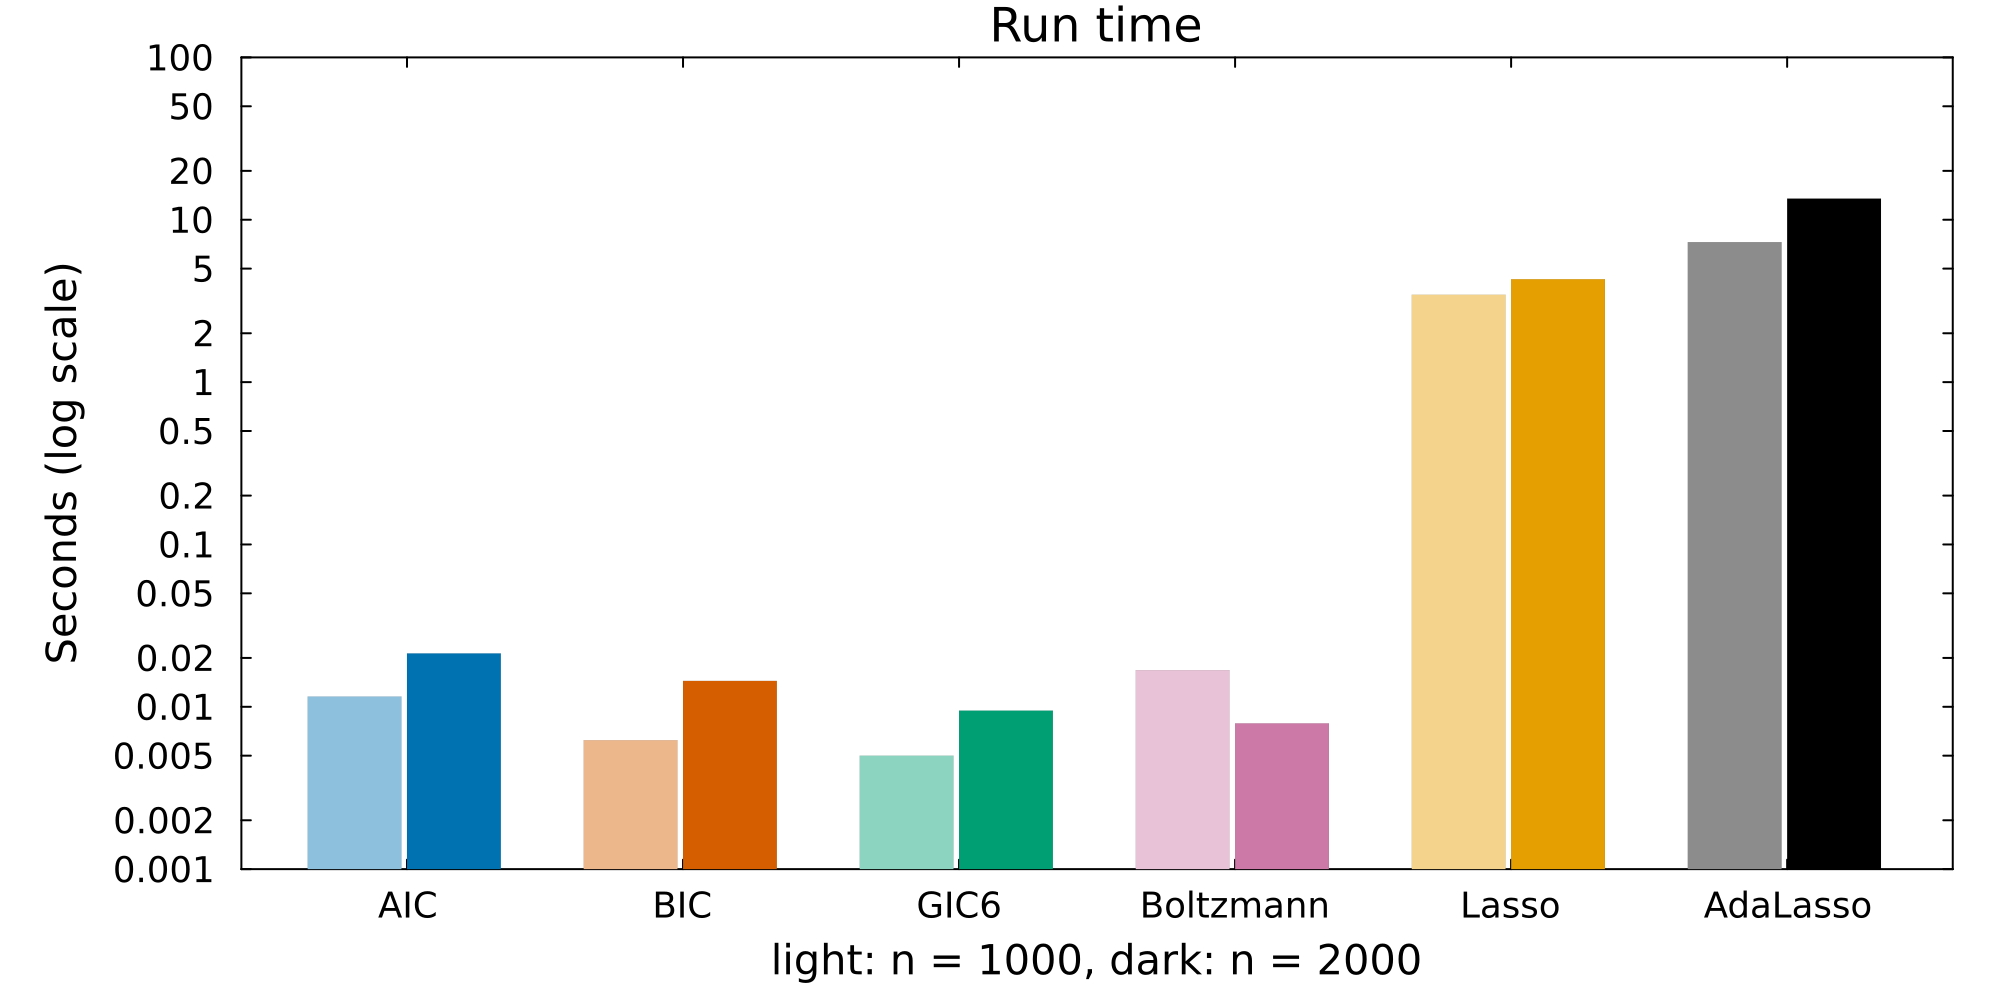
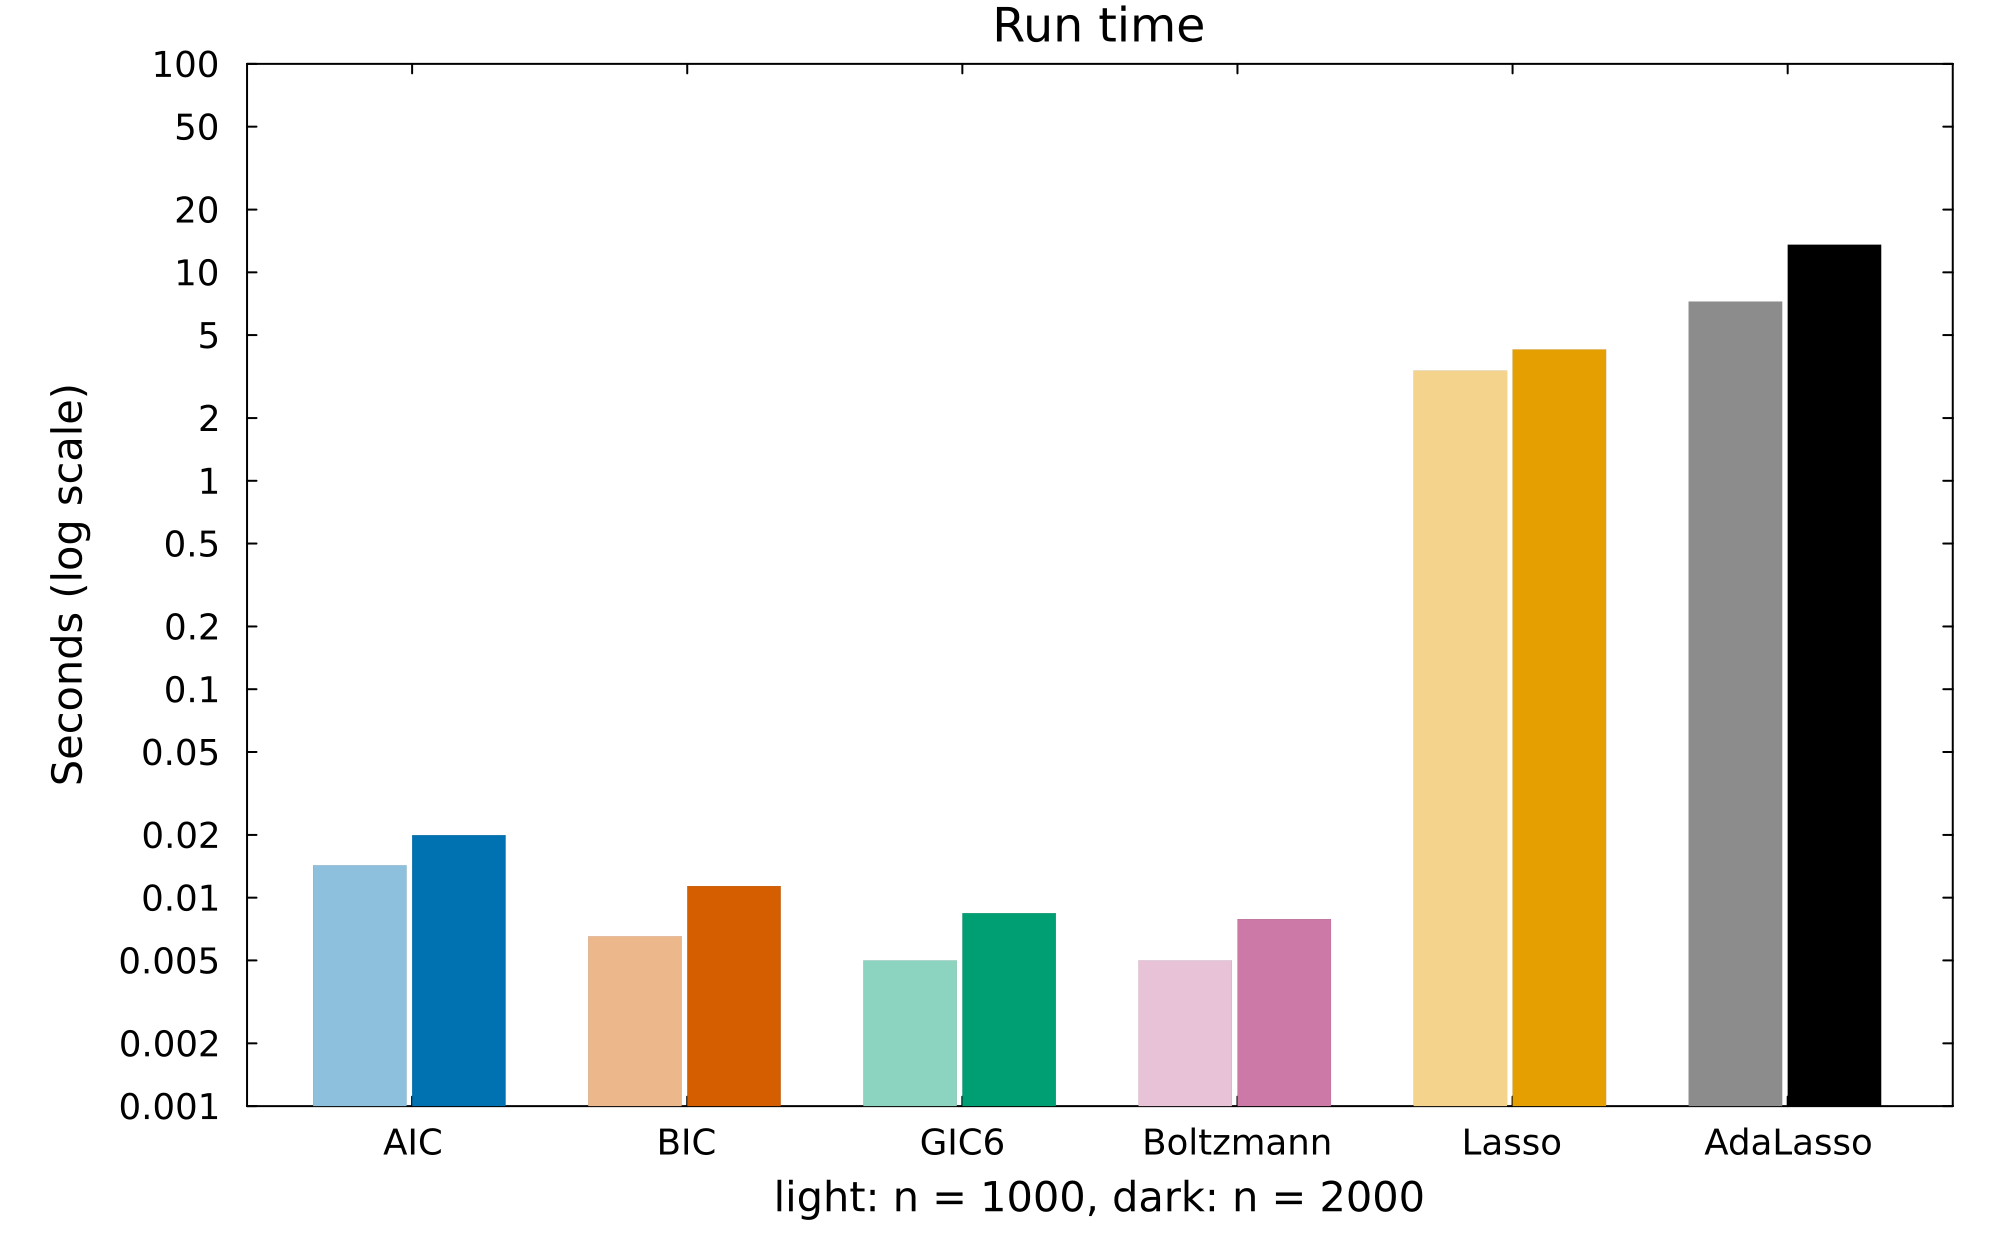
Examples: drop the figure legends and make the figures taller

diff --git a/README.md b/README.md
@@ -337,18 +337,18 @@ Y = LP_to_Y(X, beta, "Normal"; std = sqrt(sum(abs2, beta) / 0.71))
 fits = compare_criteria(X, Y, 1:p, p; Nsim = 5)
 selection_table(fits, true_cols)
 #>                  size false_pos false_neg seconds
-#> n1000 AIC         119       114         0    0.38
-#> n1000 BIC          10         5         0    0.18
-#> n1000 GIC6          5         0         0     0.2
-#> n1000 Boltzmann     5         0         0     0.2
-#> n1000 Lasso        11         6         0     2.2
-#> n1000 AdaLasso     44        39         0    5.05
-#> n2000 AIC          97        92         0    0.59
-#> n2000 BIC          10         5         0    0.42
-#> n2000 GIC6          5         0         0     0.3
-#> n2000 Boltzmann    17        12         0    0.53
-#> n2000 Lasso        23        18         0    2.94
-#> n2000 AdaLasso     39        34         0    8.25
+#> n1000 AIC         119       114         0    0.33
+#> n1000 BIC          10         5         0    0.19
+#> n1000 GIC6          5         0         0    0.16
+#> n1000 Boltzmann     5         0         0    0.27
+#> n1000 Lasso        11         6         0    2.11
+#> n1000 AdaLasso     44        39         0    4.85
+#> n2000 AIC          97        92         0    0.35
+#> n2000 BIC          10         5         0    0.44
+#> n2000 GIC6          5         0         0    0.22
+#> n2000 Boltzmann    17        12         0    0.39
+#> n2000 Lasso        23        18         0    2.84
+#> n2000 AdaLasso     39        34         0    7.91
 ```
 
 ![Criterion along the search, linear model with p = 500](docs/figures/README-linear-criterion.png)
@@ -378,18 +378,18 @@ true_union = sort(unique(reduce(vcat, true_by_response)))
 fits = compare_criteria(X, Y_multi, 1:p, p; Nsim = 5, lasso_family = MvNormal())
 selection_table(fits, true_union)
 #>                  size false_pos false_neg seconds
-#> n1000 AIC          93        69         1    0.37
-#> n1000 BIC          20         0         5    0.18
-#> n1000 GIC6         20         0         5    0.19
-#> n1000 Boltzmann   152       130         3    0.45
+#> n1000 AIC          93        69         1    0.25
+#> n1000 BIC          20         0         5    0.17
+#> n1000 GIC6         20         0         5    0.59
+#> n1000 Boltzmann   152       130         3    0.31
 #> n1000 Lasso       132       107         0    5.72
-#> n1000 AdaLasso     24         2         3   12.73
-#> n2000 AIC          76        51         0    0.53
-#> n2000 BIC          22         0         3    0.31
-#> n2000 GIC6         20         0         5    0.25
-#> n2000 Boltzmann   193       173         5    0.79
+#> n1000 AdaLasso     24         2         3   12.78
+#> n2000 AIC          76        51         0    0.52
+#> n2000 BIC          22         0         3    0.26
+#> n2000 GIC6         20         0         5    0.35
+#> n2000 Boltzmann   193       173         5    0.54
 #> n2000 Lasso       131       106         0   10.28
-#> n2000 AdaLasso     54        30         1   24.49
+#> n2000 AdaLasso     54        30         1   24.55
 ```
 
 ![Criterion along the search, multivariate normal response](docs/figures/README-multivariate-criterion.png)
@@ -427,17 +427,17 @@ fits = compare_glm(y_pois, y_pois, Poisson(), "Poisson")
 selection_table(fits, true_cols)
 #>                  size false_pos false_neg seconds
 #> n1000 AIC          49        45         1    0.01
-#> n1000 BIC           7         2         0     0.0
+#> n1000 BIC           7         2         0    0.01
 #> n1000 GIC6          5         0         0     0.0
-#> n1000 Boltzmann    49        48         4    0.01
-#> n1000 Lasso        24        19         0    5.78
-#> n1000 AdaLasso      5         0         0    7.12
-#> n2000 AIC          49        44         0    0.11
+#> n1000 Boltzmann    49        48         4    0.02
+#> n1000 Lasso        24        19         0    5.73
+#> n1000 AdaLasso      5         0         0    7.14
+#> n2000 AIC          49        44         0    0.02
 #> n2000 BIC           6         1         0    0.01
 #> n2000 GIC6          5         0         0    0.01
-#> n2000 Boltzmann    49        48         4    0.02
-#> n2000 Lasso        28        23         0    4.79
-#> n2000 AdaLasso      5         0         0   13.66
+#> n2000 Boltzmann    49        48         4    0.18
+#> n2000 Lasso        28        23         0    4.74
+#> n2000 AdaLasso      5         0         0   13.63
 
 # Coefficients of the GIC6 model for n = 2000, intercept first
 round.(Beta_estimate(y_pois, X[:, last_model(fits.n2000.GIC6)]; family = "Poisson"), digits = 2)
@@ -466,15 +466,15 @@ selection_table(fits, true_cols)
 #> n1000 AIC          49        44         0    0.01
 #> n1000 BIC          10         5         0    0.01
 #> n1000 GIC6          5         0         0     0.0
-#> n1000 Boltzmann     5         0         0    0.02
-#> n1000 Lasso        31        26         0    3.45
-#> n1000 AdaLasso     69        64         0    7.28
+#> n1000 Boltzmann     5         0         0     0.0
+#> n1000 Lasso        31        26         0    3.38
+#> n1000 AdaLasso     69        64         0    7.24
 #> n2000 AIC          49        45         1    0.02
 #> n2000 BIC          10         5         0    0.01
 #> n2000 GIC6          5         0         0    0.01
 #> n2000 Boltzmann     5         0         0    0.01
-#> n2000 Lasso        27        22         0    4.31
-#> n2000 AdaLasso     34        29         0    13.5
+#> n2000 Lasso        27        22         0    4.27
+#> n2000 AdaLasso     34        29         0   13.58
 ```
 
 ![Criterion along the search, binomial response](docs/figures/README-binomial-criterion.png)
@@ -500,14 +500,14 @@ selection_table(fits, true_cols)
 #> n1000 BIC           6         1         0     0.0
 #> n1000 GIC6          5         0         0     0.0
 #> n1000 Boltzmann    18        13         0    0.02
-#> n1000 Lasso        58        53         0   15.72
-#> n1000 AdaLasso     15        10         0   13.18
-#> n2000 AIC          49        45         1    0.14
-#> n2000 BIC           8         3         0    0.09
+#> n1000 Lasso        58        53         0   15.16
+#> n1000 AdaLasso     15        10         0   12.73
+#> n2000 AIC          49        45         1    0.02
+#> n2000 BIC           8         3         0    0.01
 #> n2000 GIC6          5         0         0    0.01
-#> n2000 Boltzmann    42        37         0    0.05
-#> n2000 Lasso        79        74         0   29.62
-#> n2000 AdaLasso     15        10         0   25.73
+#> n2000 Boltzmann    42        37         0    0.04
+#> n2000 Lasso        79        74         0    29.0
+#> n2000 AdaLasso     15        10         0   25.41
 ```
 
 ![Criterion along the search, multinomial response](docs/figures/README-multinomial-criterion.png)
